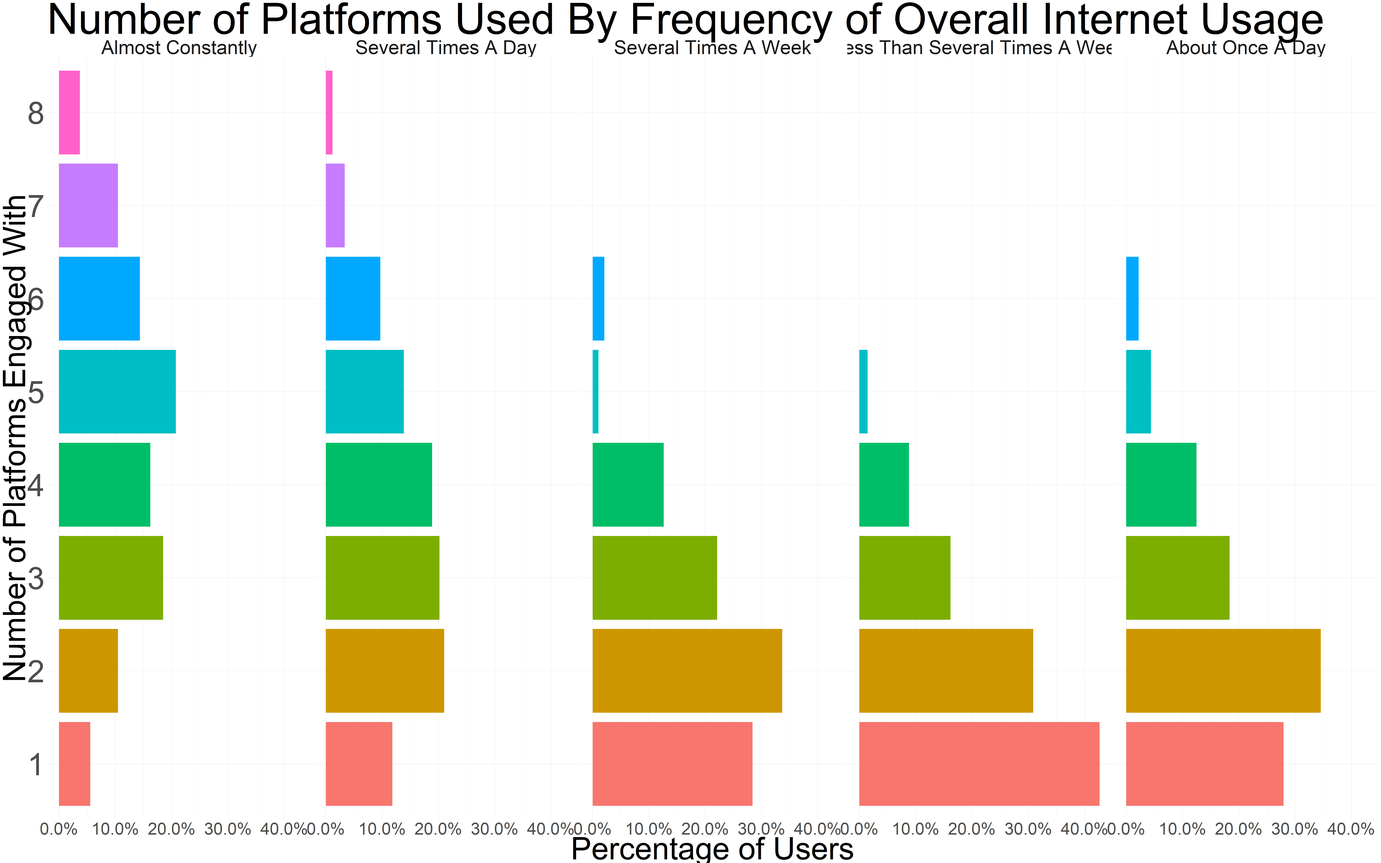
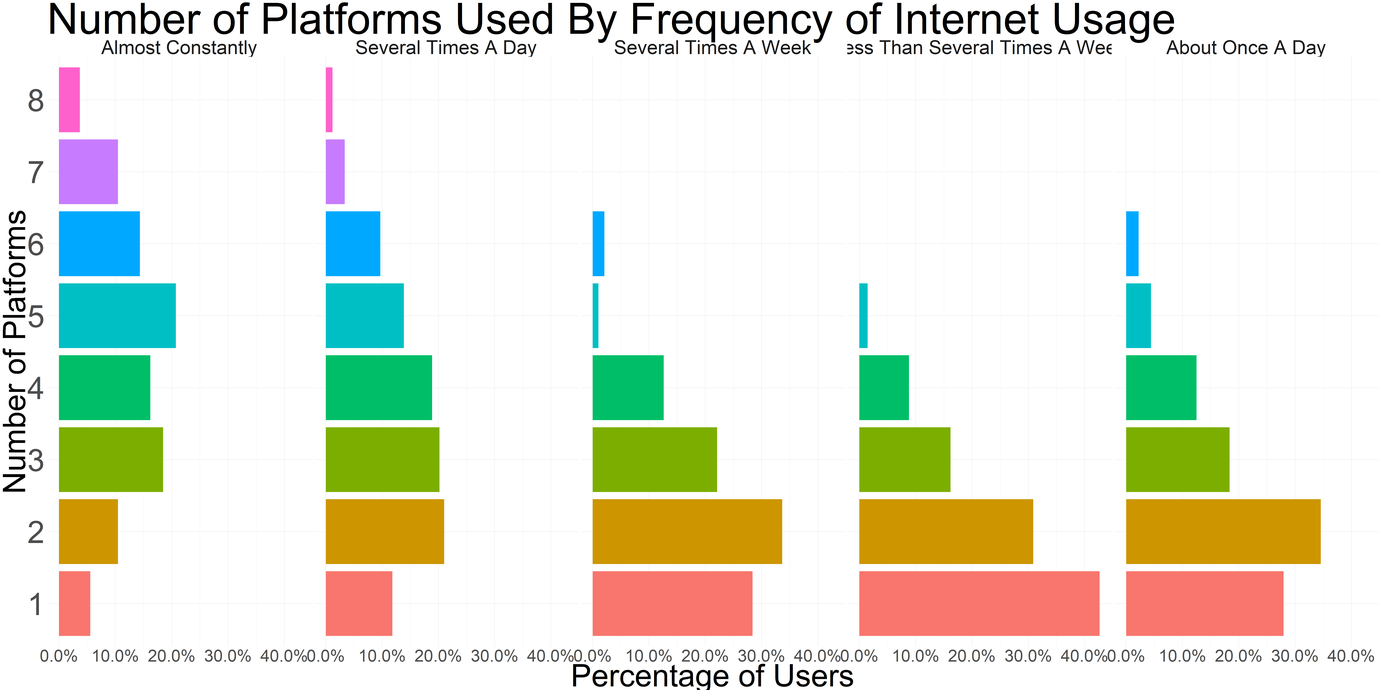
Revision of writeups

diff --git a/docs/posts/2019-03-17-single-platform-users/index.html b/docs/posts/2019-03-17-single-platform-users/index.html
@@ -21,7 +21,7 @@
   <!--radix_placeholder_meta_tags-->
 <title>Social Media Habits and Attitudes of US Adults: Chosen Social Media for Single-Platform Users</title>
 
-<meta property="description" itemprop="description" content="For pepole that only engage with one social media platform, which platform do they choose?"/>
+<meta property="description" itemprop="description" content="For people that only engage with one social media platform, which platform do they choose?"/>
 
 
 <!--  https://schema.org/Article -->
@@ -32,25 +32,25 @@
 <!--  https://developers.facebook.com/docs/sharing/webmasters#markup -->
 <meta property="og:title" content="Social Media Habits and Attitudes of US Adults: Chosen Social Media for Single-Platform Users"/>
 <meta property="og:type" content="article"/>
-<meta property="og:description" content="For pepole that only engage with one social media platform, which platform do they choose?"/>
+<meta property="og:description" content="For people that only engage with one social media platform, which platform do they choose?"/>
 <meta property="og:locale" content="en_US"/>
 <meta property="og:site_name" content="Social Media Habits and Attitudes of US Adults"/>
 
 <!--  https://dev.twitter.com/cards/types/summary -->
 <meta property="twitter:card" content="summary"/>
 <meta property="twitter:title" content="Social Media Habits and Attitudes of US Adults: Chosen Social Media for Single-Platform Users"/>
-<meta property="twitter:description" content="For pepole that only engage with one social media platform, which platform do they choose?"/>
+<meta property="twitter:description" content="For people that only engage with one social media platform, which platform do they choose?"/>
 
 <!--/radix_placeholder_meta_tags-->
   <!--radix_placeholder_rmarkdown_metadata-->
 
 <script type="text/json" id="radix-rmarkdown-metadata">
-{"type":"list","attributes":{"names":{"type":"character","attributes":{},"value":["title","description","author","date","output"]}},"value":[{"type":"character","attributes":{},"value":["Chosen Social Media for Single-Platform Users"]},{"type":"character","attributes":{},"value":["For pepole that only engage with one social media platform, which platform do they choose?"]},{"type":"list","attributes":{},"value":[{"type":"list","attributes":{"names":{"type":"character","attributes":{},"value":["name","url"]}},"value":[{"type":"character","attributes":{},"value":["Cianna Bedford-Petersen"]},{"type":"list","attributes":{"names":{"type":"character","attributes":{},"value":[]}},"value":[]}]}]},{"type":"character","attributes":{},"value":["03-17-2019"]},{"type":"list","attributes":{"names":{"type":"character","attributes":{},"value":["distill::distill_article"]}},"value":[{"type":"list","attributes":{"names":{"type":"character","attributes":{},"value":["self_contained"]}},"value":[{"type":"logical","attributes":{},"value":[false]}]}]}]}
+{"type":"list","attributes":{"names":{"type":"character","attributes":{},"value":["title","description","author","date","output"]}},"value":[{"type":"character","attributes":{},"value":["Chosen Social Media for Single-Platform Users"]},{"type":"character","attributes":{},"value":["For people that only engage with one social media platform, which platform do they choose?"]},{"type":"list","attributes":{},"value":[{"type":"list","attributes":{"names":{"type":"character","attributes":{},"value":["name","url"]}},"value":[{"type":"character","attributes":{},"value":["Cianna Bedford-Petersen"]},{"type":"list","attributes":{"names":{"type":"character","attributes":{},"value":[]}},"value":[]}]}]},{"type":"character","attributes":{},"value":["03-17-2019"]},{"type":"list","attributes":{"names":{"type":"character","attributes":{},"value":["distill::distill_article"]}},"value":[{"type":"list","attributes":{"names":{"type":"character","attributes":{},"value":["self_contained"]}},"value":[{"type":"logical","attributes":{},"value":[false]}]}]}]}
 </script>
 <!--/radix_placeholder_rmarkdown_metadata-->
   
   <script type="text/json" id="radix-resource-manifest">
-  {"type":"character","attributes":{},"value":["single-platform-users_files/figure-html5/plot 3 first iteration-1.png","single-platform-users_files/figure-html5/plot 3 second iteration-1.png","single-platform-users_files/figure-html5/plot 3 thrid iteration-1.png"]}
+  {"type":"character","attributes":{},"value":["single-platform-users_files/bowser-1.9.3/bowser.min.js","single-platform-users_files/distill-2.2.21/template.v2.js","single-platform-users_files/figure-html5/plot 3 first iteration-1.png","single-platform-users_files/figure-html5/plot 3 second iteration-1.png","single-platform-users_files/figure-html5/plot 3 thrid iteration-1.png","single-platform-users_files/jquery-1.11.3/jquery.min.js","single-platform-users_files/webcomponents-2.0.0/webcomponents.js"]}
   </script>
   <!--radix_placeholder_navigation_in_header-->
 
@@ -1280,7 +1280,7 @@ document.addEventListener('DOMContentLoaded', function() {
 <!--radix_placeholder_front_matter-->
 
 <script id="distill-front-matter" type="text/json">
-{"title":"Chosen Social Media for Single-Platform Users","description":"For pepole that only engage with one social media platform, which platform do they choose?","authors":[{"author":"Cianna Bedford-Petersen","authorURL":{},"affiliation":"&nbsp;","affiliationURL":"#"}],"publishedDate":"2019-03-17T00:00:00.000-07:00","citationText":"Bedford-Petersen, 2019"}
+{"title":"Chosen Social Media for Single-Platform Users","description":"For people that only engage with one social media platform, which platform do they choose?","authors":[{"author":"Cianna Bedford-Petersen","authorURL":{},"affiliation":"&nbsp;","affiliationURL":"#"}],"publishedDate":"2019-03-17T00:00:00.000-07:00","citationText":"Bedford-Petersen, 2019"}
 </script>
 
 <!--/radix_placeholder_front_matter-->
@@ -1303,7 +1303,7 @@ document.addEventListener('DOMContentLoaded', function() {
 
 <div class="d-title">
 <h1>Chosen Social Media for Single-Platform Users</h1>
-<p>For pepole that only engage with one social media platform, which platform do they choose?</p>
+<p>For people that only engage with one social media platform, which platform do they choose?</p>
 </div>
 
 <div class="d-byline">
@@ -1313,15 +1313,15 @@ document.addEventListener('DOMContentLoaded', function() {
 </div>
 
 <div class="d-article">
-<p>After exploring data regarding how many social media platforms participants engaged with, I am particularly curious about the group of participants that only engage with one social media platform. Which platform do they choose to engage with? I would hypothesize that those who only choose one platform would be most likely to engage with YouTube, since it is the most passive of the social media platforms, involving very little user interaction.</p>
+<p>After exploring data regarding how many social media platforms participants engaged with, I am particularly curious about the group of participants that only engage with one social media platform. Which platform do they choose to engage with? I would hypothesize that those who only choose one platform would be most likely to engage with YouTube, since it is the most passive of the social media platforms and requires very little user interaction.</p>
 <div class="layout-chunk" data-layout="l-body">
 <p><img src="single-platform-users_files/figure-html5/plot%203%20first%20iteration-1.png" width="624" /></p>
 </div>
-<p>This shows a pretty clear message that YouTube and Facebook are dominant for single-platform users. However, since we just made a chart similar to this for different information, maybe this is a good candidate for a waffle plot. A waffle plot might also help us better visualize the difference between lesser chosen platforms like Snapchat and Twitter. When making the plot, I will arrange the categories in descending order so that the smaller categories are closer to the legend, makeing them easier to interpret.</p>
+<p>This shows a pretty clear message that YouTube and Facebook are dominant for single-platform users. However, since we just made a bar chart to display number of platforms engaged with we could distinguish this visualization by making a waffle plot. A waffle plot might also help us better visualize the difference between lesser chosen platforms like Snapchat and Twitter. To make this plot easy to interpret, I will arrange the categories in descending order so that the smaller categories are closer to the legend.</p>
 <div class="layout-chunk" data-layout="l-body">
 <p><img src="single-platform-users_files/figure-html5/plot%203%20second%20iteration-1.png" width="624" /></p>
 </div>
-<p>This plot looks really clean and gives us a good idea of which platforms are the most popular with single-platform users. However, using the actual number of participants gives us a lot of squares to look at. It may be more visually appealing and interpretable to make a visualization of proportions with a 10 x 10 plot.</p>
+<p>This plot gives us a good idea of which platforms are the most popular with single-platform users. However, using the raw number of participants displays a lot of squares. It may be more visually appealing and interpretable to make a plot of proportions with a 10 x 10 grid.</p>
 <div class="layout-chunk" data-layout="l-body">
 <p><img src="single-platform-users_files/figure-html5/plot%203%20thrid%20iteration-1.png" width="624" /></p>
 </div>

diff --git a/_posts/2019-03-17-single-platform-users/single-platform-users.html b/_posts/2019-03-17-single-platform-users/single-platform-users.html
@@ -21,7 +21,7 @@
   <!--radix_placeholder_meta_tags-->
   <title>Chosen Social Media for Single-Platform Users</title>
   
-  <meta property="description" itemprop="description" content="For pepole that only engage with one social media platform, which platform do they choose?"/>
+  <meta property="description" itemprop="description" content="For people that only engage with one social media platform, which platform do they choose?"/>
   
   
   <!--  https://schema.org/Article -->
@@ -32,24 +32,24 @@
   <!--  https://developers.facebook.com/docs/sharing/webmasters#markup -->
   <meta property="og:title" content="Chosen Social Media for Single-Platform Users"/>
   <meta property="og:type" content="article"/>
-  <meta property="og:description" content="For pepole that only engage with one social media platform, which platform do they choose?"/>
+  <meta property="og:description" content="For people that only engage with one social media platform, which platform do they choose?"/>
   <meta property="og:locale" content="en_US"/>
   
   <!--  https://dev.twitter.com/cards/types/summary -->
   <meta property="twitter:card" content="summary"/>
   <meta property="twitter:title" content="Chosen Social Media for Single-Platform Users"/>
-  <meta property="twitter:description" content="For pepole that only engage with one social media platform, which platform do they choose?"/>
+  <meta property="twitter:description" content="For people that only engage with one social media platform, which platform do they choose?"/>
   
   <!--/radix_placeholder_meta_tags-->
   <!--radix_placeholder_rmarkdown_metadata-->
   
   <script type="text/json" id="radix-rmarkdown-metadata">
-  {"type":"list","attributes":{"names":{"type":"character","attributes":{},"value":["title","description","author","date","output"]}},"value":[{"type":"character","attributes":{},"value":["Chosen Social Media for Single-Platform Users"]},{"type":"character","attributes":{},"value":["For pepole that only engage with one social media platform, which platform do they choose?\n"]},{"type":"list","attributes":{},"value":[{"type":"list","attributes":{"names":{"type":"character","attributes":{},"value":["name","url"]}},"value":[{"type":"character","attributes":{},"value":["Cianna Bedford-Petersen"]},{"type":"list","attributes":{"names":{"type":"character","attributes":{},"value":[]}},"value":[]}]}]},{"type":"character","attributes":{},"value":["03-17-2019"]},{"type":"list","attributes":{"names":{"type":"character","attributes":{},"value":["distill::distill_article"]}},"value":[{"type":"list","attributes":{"names":{"type":"character","attributes":{},"value":["self_contained"]}},"value":[{"type":"logical","attributes":{},"value":[false]}]}]}]}
+  {"type":"list","attributes":{"names":{"type":"character","attributes":{},"value":["title","description","author","date","output"]}},"value":[{"type":"character","attributes":{},"value":["Chosen Social Media for Single-Platform Users"]},{"type":"character","attributes":{},"value":["For people that only engage with one social media platform, which platform do they choose?\n"]},{"type":"list","attributes":{},"value":[{"type":"list","attributes":{"names":{"type":"character","attributes":{},"value":["name","url"]}},"value":[{"type":"character","attributes":{},"value":["Cianna Bedford-Petersen"]},{"type":"list","attributes":{"names":{"type":"character","attributes":{},"value":[]}},"value":[]}]}]},{"type":"character","attributes":{},"value":["03-17-2019"]},{"type":"list","attributes":{"names":{"type":"character","attributes":{},"value":["distill::distill_article"]}},"value":[{"type":"list","attributes":{"names":{"type":"character","attributes":{},"value":["self_contained"]}},"value":[{"type":"logical","attributes":{},"value":[false]}]}]}]}
   </script>
   <!--/radix_placeholder_rmarkdown_metadata-->
   
   <script type="text/json" id="radix-resource-manifest">
-  {"type":"character","attributes":{},"value":["single-platform-users_files/figure-html5/plot 3 first iteration-1.png","single-platform-users_files/figure-html5/plot 3 second iteration-1.png","single-platform-users_files/figure-html5/plot 3 thrid iteration-1.png"]}
+  {"type":"character","attributes":{},"value":["single-platform-users_files/bowser-1.9.3/bowser.min.js","single-platform-users_files/distill-2.2.21/template.v2.js","single-platform-users_files/figure-html5/plot 3 first iteration-1.png","single-platform-users_files/figure-html5/plot 3 second iteration-1.png","single-platform-users_files/figure-html5/plot 3 thrid iteration-1.png","single-platform-users_files/jquery-1.11.3/jquery.min.js","single-platform-users_files/webcomponents-2.0.0/webcomponents.js"]}
   </script>
   <!--radix_placeholder_navigation_in_header-->
   <!--/radix_placeholder_navigation_in_header-->
@@ -942,7 +942,7 @@
 <!--radix_placeholder_front_matter-->
 
 <script id="distill-front-matter" type="text/json">
-{"title":"Chosen Social Media for Single-Platform Users","description":"For pepole that only engage with one social media platform, which platform do they choose?","authors":[{"author":"Cianna Bedford-Petersen","authorURL":{},"affiliation":"&nbsp;","affiliationURL":"#"}],"publishedDate":"2019-03-17T00:00:00.000-07:00","citationText":"Bedford-Petersen, 2019"}
+{"title":"Chosen Social Media for Single-Platform Users","description":"For people that only engage with one social media platform, which platform do they choose?","authors":[{"author":"Cianna Bedford-Petersen","authorURL":{},"affiliation":"&nbsp;","affiliationURL":"#"}],"publishedDate":"2019-03-17T00:00:00.000-07:00","citationText":"Bedford-Petersen, 2019"}
 </script>
 
 <!--/radix_placeholder_front_matter-->
@@ -953,7 +953,7 @@
 
 <div class="d-title">
 <h1>Chosen Social Media for Single-Platform Users</h1>
-<p>For pepole that only engage with one social media platform, which platform do they choose?</p>
+<p>For people that only engage with one social media platform, which platform do they choose?</p>
 </div>
 
 <div class="d-byline">
@@ -963,15 +963,15 @@
 </div>
 
 <div class="d-article">
-<p>After exploring data regarding how many social media platforms participants engaged with, I am particularly curious about the group of participants that only engage with one social media platform. Which platform do they choose to engage with? I would hypothesize that those who only choose one platform would be most likely to engage with YouTube, since it is the most passive of the social media platforms, involving very little user interaction.</p>
+<p>After exploring data regarding how many social media platforms participants engaged with, I am particularly curious about the group of participants that only engage with one social media platform. Which platform do they choose to engage with? I would hypothesize that those who only choose one platform would be most likely to engage with YouTube, since it is the most passive of the social media platforms and requires very little user interaction.</p>
 <div class="layout-chunk" data-layout="l-body">
 <p><img src="single-platform-users_files/figure-html5/plot%203%20first%20iteration-1.png" width="624" /></p>
 </div>
-<p>This shows a pretty clear message that YouTube and Facebook are dominant for single-platform users. However, since we just made a chart similar to this for different information, maybe this is a good candidate for a waffle plot. A waffle plot might also help us better visualize the difference between lesser chosen platforms like Snapchat and Twitter. When making the plot, I will arrange the categories in descending order so that the smaller categories are closer to the legend, makeing them easier to interpret.</p>
+<p>This shows a pretty clear message that YouTube and Facebook are dominant for single-platform users. However, since we just made a bar chart to display number of platforms engaged with we could distinguish this visualization by making a waffle plot. A waffle plot might also help us better visualize the difference between lesser chosen platforms like Snapchat and Twitter. To make this plot easy to interpret, I will arrange the categories in descending order so that the smaller categories are closer to the legend.</p>
 <div class="layout-chunk" data-layout="l-body">
 <p><img src="single-platform-users_files/figure-html5/plot%203%20second%20iteration-1.png" width="624" /></p>
 </div>
-<p>This plot looks really clean and gives us a good idea of which platforms are the most popular with single-platform users. However, using the actual number of participants gives us a lot of squares to look at. It may be more visually appealing and interpretable to make a visualization of proportions with a 10 x 10 plot.</p>
+<p>This plot gives us a good idea of which platforms are the most popular with single-platform users. However, using the raw number of participants displays a lot of squares. It may be more visually appealing and interpretable to make a plot of proportions with a 10 x 10 grid.</p>
 <div class="layout-chunk" data-layout="l-body">
 <p><img src="single-platform-users_files/figure-html5/plot%203%20thrid%20iteration-1.png" width="624" /></p>
 </div>

diff --git a/docs/posts/2019-03-17-adult-attitudes-towards-the-internet/index.html b/docs/posts/2019-03-17-adult-attitudes-towards-the-internet/index.html
@@ -50,7 +50,7 @@
 <!--/radix_placeholder_rmarkdown_metadata-->
   
   <script type="text/json" id="radix-resource-manifest">
-  {"type":"character","attributes":{},"value":["adult-attitudes-towards-the-internet_files/figure-html5/plot 1 fist iteration-1.png","adult-attitudes-towards-the-internet_files/figure-html5/plot 1 second interation-1.png","adult-attitudes-towards-the-internet_files/figure-html5/third iteration-1.png"]}
+  {"type":"character","attributes":{},"value":["adult-attitudes-towards-the-internet_files/bowser-1.9.3/bowser.min.js","adult-attitudes-towards-the-internet_files/distill-2.2.21/template.v2.js","adult-attitudes-towards-the-internet_files/figure-html5/plot 1 fist iteration-1.png","adult-attitudes-towards-the-internet_files/figure-html5/plot 1 second interation-1.png","adult-attitudes-towards-the-internet_files/figure-html5/plot 1 third iteration-1.png","adult-attitudes-towards-the-internet_files/figure-html5/third iteration-1.png","adult-attitudes-towards-the-internet_files/jquery-1.11.3/jquery.min.js","adult-attitudes-towards-the-internet_files/webcomponents-2.0.0/webcomponents.js"]}
   </script>
   <!--radix_placeholder_navigation_in_header-->
 
@@ -1313,12 +1313,12 @@ document.addEventListener('DOMContentLoaded', function() {
 </div>
 
 <div class="d-article">
-<p>Participants were asked if overall, they consider the internet to be a good or bad thing for society. I am curious if the distribution of ages varies by response. I would predict that older participants are more likely to say that the internet is a bad thing for society than younger participants.</p>
-<p>For the first iteration of this plot, I used ggridges to to get a sense of the age distribution for each of the possible responses.</p>
+<p>Participants were asked if overall, they consider the internet to be a good or bad thing for society. I am curious if the distribution of ages varies by response. I would predict that older participants are more likely to say that the internet is a bad thing for society rather than than a good thing.</p>
+<p>For the first iteration of this plot, I used ggridges to visualize the age distribution for each of the possible responses.</p>
 <div class="layout-chunk" data-layout="l-body">
 <p><img src="adult-attitudes-towards-the-internet_files/figure-html5/plot%201%20fist%20iteration-1.png" width="624" /></p>
 </div>
-<p>From this first plot it looks like there may be some differences in response by age but it is difficult to see what the pattern might be. I was curious to know how many respondants were in each category. In the table below you can see that only 10 participants refused to answer, this is likely not enuough to represent the population well and will be removed from future plots.</p>
+<p>From this first plot, it looks like there may be some differences in response by age but it is difficult to see what the pattern might be. I was curious to know how many respondants were in each category. In the table below you can see that only 10 participants refused to answer. This is likely not enough to represent the population well, so I will remove it from future plots.</p>
 <div class="layout-chunk" data-layout="l-body">
 <table>
 <thead>
@@ -1351,15 +1351,15 @@ document.addEventListener('DOMContentLoaded', function() {
 </tbody>
 </table>
 </div>
-<p>For the second interation of the plot, I put the reponse categories in an order that was more interpretable to aide in spotting any patterns in the data. Additonally, I chose a larger bandwith to show a clearer peak for each distribution. Finally, I cleaned up titles and axes to help orient the reader.</p>
+<p>For the second interation of this plot, I put the reponse categories in an order that was more interpretable to better visualize patterns in the data. Additonally, I chose a larger bandwith to show a clearer peak for each distribution. Finally, I cleaned up titles and axes to help orient the reader.</p>
 <div class="layout-chunk" data-layout="l-body">
 <p><img src="adult-attitudes-towards-the-internet_files/figure-html5/plot%201%20second%20interation-1.png" width="624" /></p>
 </div>
-<p>At this point, our plot would be pretty interpretable to any scientific audience that was familiar with denisity distributions. However, to make this plot more approachable for a general audience, it would be helpful to have a reference point that makes it easy to compare response groups. For the final interation of the plot, I added a line and text at the highest density point for each response category.</p>
+<p>At this point, our plot would be pretty interpretable to any scientific audience that was familiar with denisity distributions. However, to make this plot more approachable for a general audience, it would be helpful to have a reference point for comparing response groups. For the final interation of the plot, I added a line and text at the highest density point for each response category.</p>
 <div class="layout-chunk" data-layout="l-body">
-<p><img src="adult-attitudes-towards-the-internet_files/figure-html5/third%20iteration-1.png" width="624" /></p>
+<p><img src="adult-attitudes-towards-the-internet_files/figure-html5/plot%201%20third%20iteration-1.png" width="624" /></p>
 </div>
-<p>From the final plot we can see that older participants were slightly more likely to say that the internet has had at least some bad influence rather than being completely a good thing, although, the effect of age is not as dramatic as I originally expected. However, there is a large skew towards older participants for the response that they don’t know if the internet has been mostly good or bad. This may indicate that younger people have more definitive beliefs about the impact of the internet.</p>
+<p>From the final plot we can see that older participants were only slightly more likely to say that the internet has had at least some bad influence rather than being completely a good thing. However, there is a large skew towards older participants responding that they don’t know if the internet has been mostly good or bad. This may indicate that younger people have more definitive beliefs about the impact of the internet.</p>
 <!--radix_placeholder_article_footer-->
 <!--/radix_placeholder_article_footer-->
 </div>

diff --git a/_posts/2019-03-17-adult-attitudes-towards-the-internet/adult-attitudes-towards-the-internet.html b/_posts/2019-03-17-adult-attitudes-towards-the-internet/adult-attitudes-towards-the-internet.html
@@ -49,7 +49,7 @@
   <!--/radix_placeholder_rmarkdown_metadata-->
   
   <script type="text/json" id="radix-resource-manifest">
-  {"type":"character","attributes":{},"value":["adult-attitudes-towards-the-internet_files/figure-html5/plot 1 fist iteration-1.png","adult-attitudes-towards-the-internet_files/figure-html5/plot 1 second interation-1.png","adult-attitudes-towards-the-internet_files/figure-html5/third iteration-1.png"]}
+  {"type":"character","attributes":{},"value":["adult-attitudes-towards-the-internet_files/bowser-1.9.3/bowser.min.js","adult-attitudes-towards-the-internet_files/distill-2.2.21/template.v2.js","adult-attitudes-towards-the-internet_files/figure-html5/plot 1 fist iteration-1.png","adult-attitudes-towards-the-internet_files/figure-html5/plot 1 second interation-1.png","adult-attitudes-towards-the-internet_files/figure-html5/plot 1 third iteration-1.png","adult-attitudes-towards-the-internet_files/figure-html5/third iteration-1.png","adult-attitudes-towards-the-internet_files/jquery-1.11.3/jquery.min.js","adult-attitudes-towards-the-internet_files/webcomponents-2.0.0/webcomponents.js"]}
   </script>
   <!--radix_placeholder_navigation_in_header-->
   <!--/radix_placeholder_navigation_in_header-->
@@ -963,12 +963,12 @@
 </div>
 
 <div class="d-article">
-<p>Participants were asked if overall, they consider the internet to be a good or bad thing for society. I am curious if the distribution of ages varies by response. I would predict that older participants are more likely to say that the internet is a bad thing for society than younger participants.</p>
-<p>For the first iteration of this plot, I used ggridges to to get a sense of the age distribution for each of the possible responses.</p>
+<p>Participants were asked if overall, they consider the internet to be a good or bad thing for society. I am curious if the distribution of ages varies by response. I would predict that older participants are more likely to say that the internet is a bad thing for society rather than than a good thing.</p>
+<p>For the first iteration of this plot, I used ggridges to visualize the age distribution for each of the possible responses.</p>
 <div class="layout-chunk" data-layout="l-body">
 <p><img src="adult-attitudes-towards-the-internet_files/figure-html5/plot%201%20fist%20iteration-1.png" width="624" /></p>
 </div>
-<p>From this first plot it looks like there may be some differences in response by age but it is difficult to see what the pattern might be. I was curious to know how many respondants were in each category. In the table below you can see that only 10 participants refused to answer, this is likely not enuough to represent the population well and will be removed from future plots.</p>
+<p>From this first plot, it looks like there may be some differences in response by age but it is difficult to see what the pattern might be. I was curious to know how many respondants were in each category. In the table below you can see that only 10 participants refused to answer. This is likely not enough to represent the population well, so I will remove it from future plots.</p>
 <div class="layout-chunk" data-layout="l-body">
 <table>
 <thead>
@@ -1001,15 +1001,15 @@
 </tbody>
 </table>
 </div>
-<p>For the second interation of the plot, I put the reponse categories in an order that was more interpretable to aide in spotting any patterns in the data. Additonally, I chose a larger bandwith to show a clearer peak for each distribution. Finally, I cleaned up titles and axes to help orient the reader.</p>
+<p>For the second interation of this plot, I put the reponse categories in an order that was more interpretable to better visualize patterns in the data. Additonally, I chose a larger bandwith to show a clearer peak for each distribution. Finally, I cleaned up titles and axes to help orient the reader.</p>
 <div class="layout-chunk" data-layout="l-body">
 <p><img src="adult-attitudes-towards-the-internet_files/figure-html5/plot%201%20second%20interation-1.png" width="624" /></p>
 </div>
-<p>At this point, our plot would be pretty interpretable to any scientific audience that was familiar with denisity distributions. However, to make this plot more approachable for a general audience, it would be helpful to have a reference point that makes it easy to compare response groups. For the final interation of the plot, I added a line and text at the highest density point for each response category.</p>
+<p>At this point, our plot would be pretty interpretable to any scientific audience that was familiar with denisity distributions. However, to make this plot more approachable for a general audience, it would be helpful to have a reference point for comparing response groups. For the final interation of the plot, I added a line and text at the highest density point for each response category.</p>
 <div class="layout-chunk" data-layout="l-body">
-<p><img src="adult-attitudes-towards-the-internet_files/figure-html5/third%20iteration-1.png" width="624" /></p>
+<p><img src="adult-attitudes-towards-the-internet_files/figure-html5/plot%201%20third%20iteration-1.png" width="624" /></p>
 </div>
-<p>From the final plot we can see that older participants were slightly more likely to say that the internet has had at least some bad influence rather than being completely a good thing, although, the effect of age is not as dramatic as I originally expected. However, there is a large skew towards older participants for the response that they don’t know if the internet has been mostly good or bad. This may indicate that younger people have more definitive beliefs about the impact of the internet.</p>
+<p>From the final plot we can see that older participants were only slightly more likely to say that the internet has had at least some bad influence rather than being completely a good thing. However, there is a large skew towards older participants responding that they don’t know if the internet has been mostly good or bad. This may indicate that younger people have more definitive beliefs about the impact of the internet.</p>
 <!--radix_placeholder_article_footer-->
 <!--/radix_placeholder_article_footer-->
 </div>

diff --git a/docs/posts/2019-03-17-internet-frequency-and-social-media/index.html b/docs/posts/2019-03-17-internet-frequency-and-social-media/index.html
@@ -50,7 +50,7 @@
 <!--/radix_placeholder_rmarkdown_metadata-->
   
   <script type="text/json" id="radix-resource-manifest">
-  {"type":"character","attributes":{},"value":["internet-frequency-and-social-media_files/figure-html5/plot 2 second iteration-1.png","internet-frequency-and-social-media_files/figure-html5/plot 3 first iteration-1.png","internet-frequency-and-social-media_files/figure-html5/plot third iteration-1.png"]}
+  {"type":"character","attributes":{},"value":["internet-frequency-and-social-media_files/bowser-1.9.3/bowser.min.js","internet-frequency-and-social-media_files/distill-2.2.21/template.v2.js","internet-frequency-and-social-media_files/figure-html5/plot 2 second iteration-1.png","internet-frequency-and-social-media_files/figure-html5/plot 3 first iteration-1.png","internet-frequency-and-social-media_files/figure-html5/plot third iteration-1.png","internet-frequency-and-social-media_files/jquery-1.11.3/jquery.min.js","internet-frequency-and-social-media_files/webcomponents-2.0.0/webcomponents.js"]}
   </script>
   <!--radix_placeholder_navigation_in_header-->
 
@@ -1314,19 +1314,19 @@ document.addEventListener('DOMContentLoaded', function() {
 
 <div class="d-article">
 <p>Participants were asked both how frequently they use the internet and which social media platforms they engage with. I am curious to know if those who visit the internet more frequently are also engaging in a higher number of platforms.</p>
-<p>This data set required a fair amount of wrangling before visualization. Participants were asked to give a yes or no response regarding their engagement with eight separate social media platforms. From these eight columns of responses, I created one variable that totaled the number of platforms each participant engaged with.</p>
+<p>This data set required a fair amount of wrangling before visualization. Participants were asked to give a yes or no response regarding their engagement with eight separate social media platforms. From these eight response columns, I created one variable that totaled the number of platforms each participant engaged with.</p>
 <div class="layout-chunk" data-layout="l-body">
 <p><img src="internet-frequency-and-social-media_files/figure-html5/plot%203%20first%20iteration-1.png" width="2880" /></p>
 </div>
-<p>While this first plot conveys all of the necessary information, it is difficult to compare across frequency categories. To resolve this, I put all of the facets in one row and added a fill by number of platforms engaged with, so the viewer is able to compare across all levels of internet frequency use. This will also resolve the issue of overlapping facet label and x-axis seen in the first plot.</p>
+<p>While this first plot conveys all of the necessary information, it is difficult to compare across frequency categories. To resolve this, I will put all of the facets in one row and add a fill by number of platforms engaged with. I will also add a title and clean up the labels to better orient the reader.</p>
 <div class="layout-chunk" data-layout="l-body">
 <p><img src="internet-frequency-and-social-media_files/figure-html5/plot%202%20second%20iteration-1.png" width="3840" /></p>
 </div>
-<p>Put all of the facets on one row made the comparison across frequency groups much clearer. However filling by the number of platforms engaged with is actually a bit distracting and confusing. The percentage of users is a proportion that adds up to 100% within a facet rather than across the facets. Therefore, it actually makes more sense to fill for the frequency of internet usage. This will direct the viewers attention to seeing a distribution within a facet and they can more easily compare the distributions across levels of internet usage frequency. Finally, I will us a color palette that is more colorblind friendly than the default.</p>
+<p>Putting all of the facets on one row made the comparison across frequency groups much clearer. However, filling by the number of platforms engaged with is actually a bit distracting and confusing. The percentage of users is a proportion that adds up to 100% within a facet rather than across the facets. Therefore, it actually makes more sense to fill by the frequency of internet usage. This will direct the viewers attention to the distribution within a facet and they can more easily compare the distributions across levels of internet usage frequency. Finally, I will us a color palette that is more colorblind friendly than the default.</p>
 <div class="layout-chunk" data-layout="l-body">
 <p><img src="internet-frequency-and-social-media_files/figure-html5/plot%20third%20iteration-1.png" width="3840" /></p>
 </div>
-<p>The final plot clearly shows that people who do not use the internet very often are likely to engage with only 1 or 2 social media platforms. While those who use the internet more frequently are most likely to engage with 3-5 different social media platforms.</p>
+<p>The final plot clearly shows that people who infrequently use the internet are likely to engage with only one or two social media platforms, while those who use the internet more frequently are likely to engage with three to five different social media platforms.</p>
 <!--radix_placeholder_article_footer-->
 <!--/radix_placeholder_article_footer-->
 </div>

diff --git a/_posts/2019-03-17-internet-frequency-and-social-media/internet-frequency-and-social-media.html b/_posts/2019-03-17-internet-frequency-and-social-media/internet-frequency-and-social-media.html
@@ -49,7 +49,7 @@
   <!--/radix_placeholder_rmarkdown_metadata-->
   
   <script type="text/json" id="radix-resource-manifest">
-  {"type":"character","attributes":{},"value":["internet-frequency-and-social-media_files/figure-html5/plot 2 second iteration-1.png","internet-frequency-and-social-media_files/figure-html5/plot 3 first iteration-1.png","internet-frequency-and-social-media_files/figure-html5/plot third iteration-1.png"]}
+  {"type":"character","attributes":{},"value":["internet-frequency-and-social-media_files/bowser-1.9.3/bowser.min.js","internet-frequency-and-social-media_files/distill-2.2.21/template.v2.js","internet-frequency-and-social-media_files/figure-html5/plot 2 second iteration-1.png","internet-frequency-and-social-media_files/figure-html5/plot 3 first iteration-1.png","internet-frequency-and-social-media_files/figure-html5/plot third iteration-1.png","internet-frequency-and-social-media_files/jquery-1.11.3/jquery.min.js","internet-frequency-and-social-media_files/webcomponents-2.0.0/webcomponents.js"]}
   </script>
   <!--radix_placeholder_navigation_in_header-->
   <!--/radix_placeholder_navigation_in_header-->
@@ -964,19 +964,19 @@
 
 <div class="d-article">
 <p>Participants were asked both how frequently they use the internet and which social media platforms they engage with. I am curious to know if those who visit the internet more frequently are also engaging in a higher number of platforms.</p>
-<p>This data set required a fair amount of wrangling before visualization. Participants were asked to give a yes or no response regarding their engagement with eight separate social media platforms. From these eight columns of responses, I created one variable that totaled the number of platforms each participant engaged with.</p>
+<p>This data set required a fair amount of wrangling before visualization. Participants were asked to give a yes or no response regarding their engagement with eight separate social media platforms. From these eight response columns, I created one variable that totaled the number of platforms each participant engaged with.</p>
 <div class="layout-chunk" data-layout="l-body">
 <p><img src="internet-frequency-and-social-media_files/figure-html5/plot%203%20first%20iteration-1.png" width="2880" /></p>
 </div>
-<p>While this first plot conveys all of the necessary information, it is difficult to compare across frequency categories. To resolve this, I put all of the facets in one row and added a fill by number of platforms engaged with, so the viewer is able to compare across all levels of internet frequency use. This will also resolve the issue of overlapping facet label and x-axis seen in the first plot.</p>
+<p>While this first plot conveys all of the necessary information, it is difficult to compare across frequency categories. To resolve this, I will put all of the facets in one row and add a fill by number of platforms engaged with. I will also add a title and clean up the labels to better orient the reader.</p>
 <div class="layout-chunk" data-layout="l-body">
 <p><img src="internet-frequency-and-social-media_files/figure-html5/plot%202%20second%20iteration-1.png" width="3840" /></p>
 </div>
-<p>Put all of the facets on one row made the comparison across frequency groups much clearer. However filling by the number of platforms engaged with is actually a bit distracting and confusing. The percentage of users is a proportion that adds up to 100% within a facet rather than across the facets. Therefore, it actually makes more sense to fill for the frequency of internet usage. This will direct the viewers attention to seeing a distribution within a facet and they can more easily compare the distributions across levels of internet usage frequency. Finally, I will us a color palette that is more colorblind friendly than the default.</p>
+<p>Putting all of the facets on one row made the comparison across frequency groups much clearer. However, filling by the number of platforms engaged with is actually a bit distracting and confusing. The percentage of users is a proportion that adds up to 100% within a facet rather than across the facets. Therefore, it actually makes more sense to fill by the frequency of internet usage. This will direct the viewers attention to the distribution within a facet and they can more easily compare the distributions across levels of internet usage frequency. Finally, I will us a color palette that is more colorblind friendly than the default.</p>
 <div class="layout-chunk" data-layout="l-body">
 <p><img src="internet-frequency-and-social-media_files/figure-html5/plot%20third%20iteration-1.png" width="3840" /></p>
 </div>
-<p>The final plot clearly shows that people who do not use the internet very often are likely to engage with only 1 or 2 social media platforms. While those who use the internet more frequently are most likely to engage with 3-5 different social media platforms.</p>
+<p>The final plot clearly shows that people who infrequently use the internet are likely to engage with only one or two social media platforms, while those who use the internet more frequently are likely to engage with three to five different social media platforms.</p>
 <!--radix_placeholder_article_footer-->
 <!--/radix_placeholder_article_footer-->
 </div>

diff --git a/docs/about.html b/docs/about.html
@@ -19,14 +19,14 @@
  <!--/radix_placeholder_import_source-->
 
   <!--radix_placeholder_meta_tags-->
-  <title>Social Media Habits and Attitudes of US Adults: Project Overview: Social Media Habits and Attitudes of US Adult</title>
+  <title>Social Media Habits and Attitudes of US Adults: Project Overview: Social Media Habits and Attitudes of US Adults</title>
   
   <meta property="description" itemprop="description" content="Final project examining social media usage and beliefs of US adults."/>
   
   
   
   <!--  https://developers.facebook.com/docs/sharing/webmasters#markup -->
-  <meta property="og:title" content="Social Media Habits and Attitudes of US Adults: Project Overview: Social Media Habits and Attitudes of US Adult"/>
+  <meta property="og:title" content="Social Media Habits and Attitudes of US Adults: Project Overview: Social Media Habits and Attitudes of US Adults"/>
   <meta property="og:type" content="article"/>
   <meta property="og:description" content="Final project examining social media usage and beliefs of US adults."/>
   <meta property="og:locale" content="en_US"/>
@@ -34,14 +34,14 @@
   
   <!--  https://dev.twitter.com/cards/types/summary -->
   <meta property="twitter:card" content="summary"/>
-  <meta property="twitter:title" content="Social Media Habits and Attitudes of US Adults: Project Overview: Social Media Habits and Attitudes of US Adult"/>
+  <meta property="twitter:title" content="Social Media Habits and Attitudes of US Adults: Project Overview: Social Media Habits and Attitudes of US Adults"/>
   <meta property="twitter:description" content="Final project examining social media usage and beliefs of US adults."/>
   
   <!--/radix_placeholder_meta_tags-->
   <!--radix_placeholder_rmarkdown_metadata-->
   
   <script type="text/json" id="radix-rmarkdown-metadata">
-  {"type":"list","attributes":{"names":{"type":"character","attributes":{},"value":["title","description"]}},"value":[{"type":"character","attributes":{},"value":["Project Overview: Social Media Habits and Attitudes of US Adult"]},{"type":"character","attributes":{},"value":["Final project examining social media usage and beliefs of US adults."]}]}
+  {"type":"list","attributes":{"names":{"type":"character","attributes":{},"value":["title","description"]}},"value":[{"type":"character","attributes":{},"value":["Project Overview: Social Media Habits and Attitudes of US Adults"]},{"type":"character","attributes":{},"value":["Final project examining social media usage and beliefs of US adults."]}]}
   </script>
   <!--/radix_placeholder_rmarkdown_metadata-->
   <!--radix_placeholder_navigation_in_header-->
@@ -1272,7 +1272,7 @@
 <!--radix_placeholder_front_matter-->
 
 <script id="distill-front-matter" type="text/json">
-{"title":"Project Overview: Social Media Habits and Attitudes of US Adult","description":"Final project examining social media usage and beliefs of US adults.","authors":[]}
+{"title":"Project Overview: Social Media Habits and Attitudes of US Adults","description":"Final project examining social media usage and beliefs of US adults.","authors":[]}
 </script>
 
 <!--/radix_placeholder_front_matter-->
@@ -1294,7 +1294,7 @@
 <!--/radix_placeholder_site_before_body-->
 
 <div class="d-title">
-<h1>Project Overview: Social Media Habits and Attitudes of US Adult</h1>
+<h1>Project Overview: Social Media Habits and Attitudes of US Adults</h1>
 <p>Final project examining social media usage and beliefs of US adults.</p>
 </div>
 

diff --git a/docs/index.html b/docs/index.html
@@ -1645,7 +1645,7 @@ function init_posts_list() {
 </div>
 <div class="description">
 <h2>Chosen Social Media for Single-Platform Users</h2>
-<p>For pepole that only engage with one social media platform, which platform do they choose?</p>
+<p>For people that only engage with one social media platform, which platform do they choose?</p>
 </div>
 </a>
 </div>
